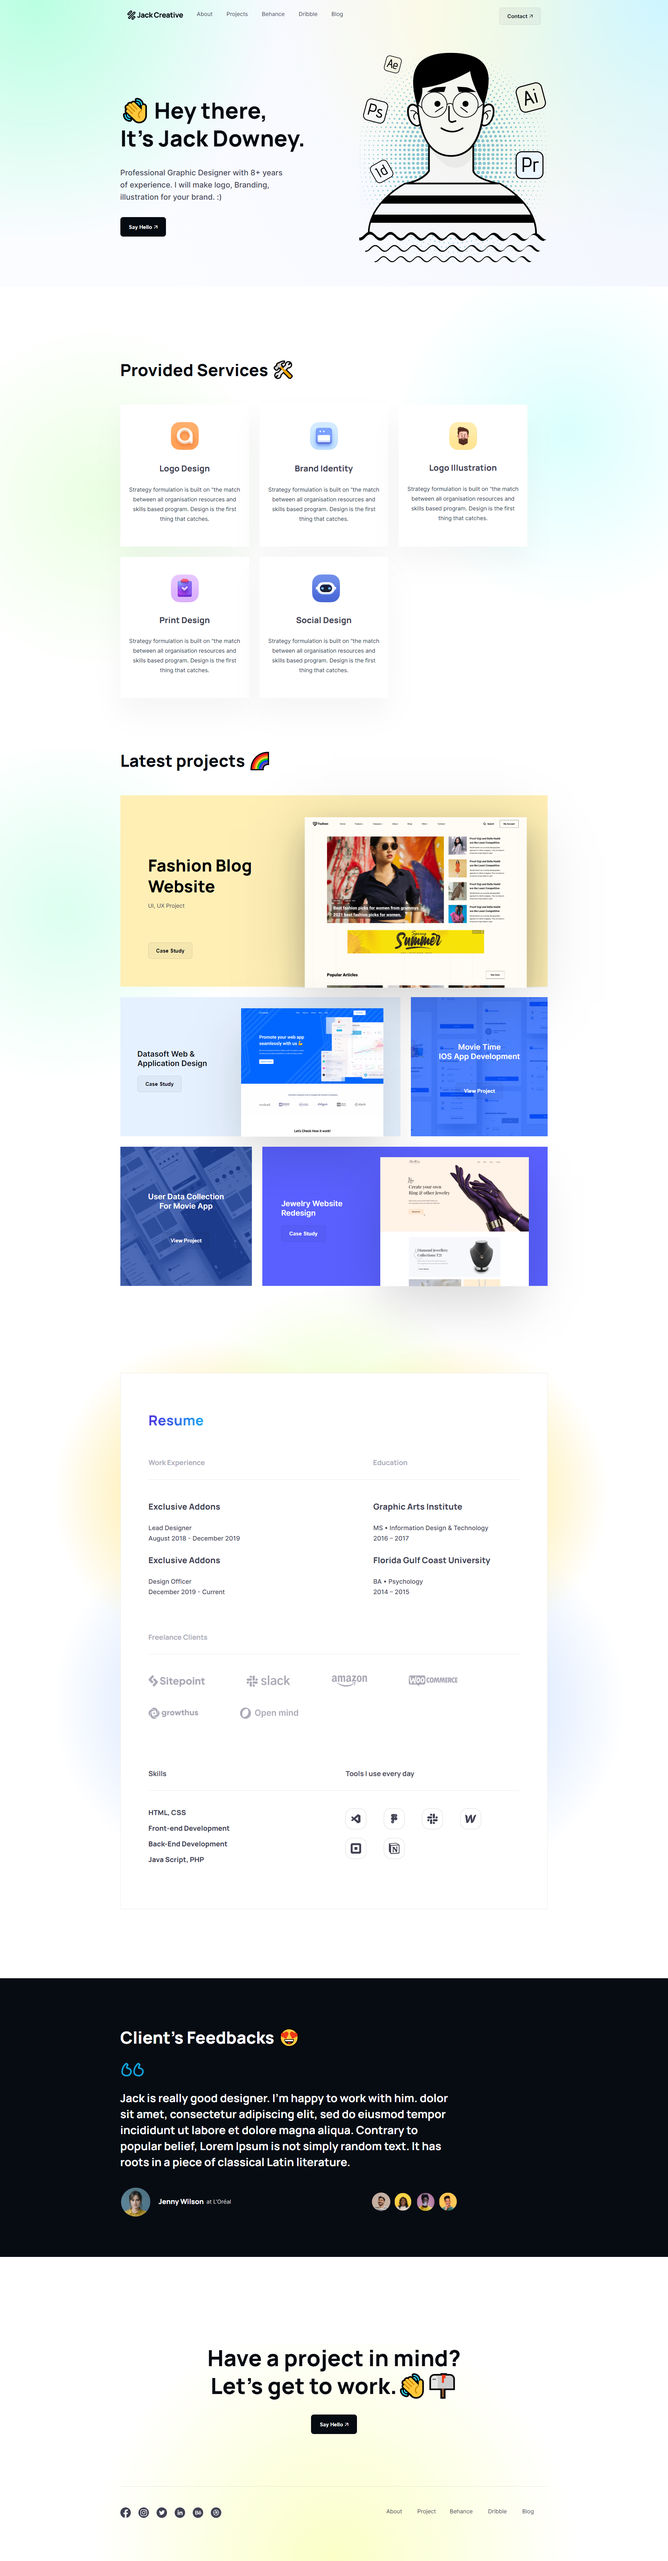
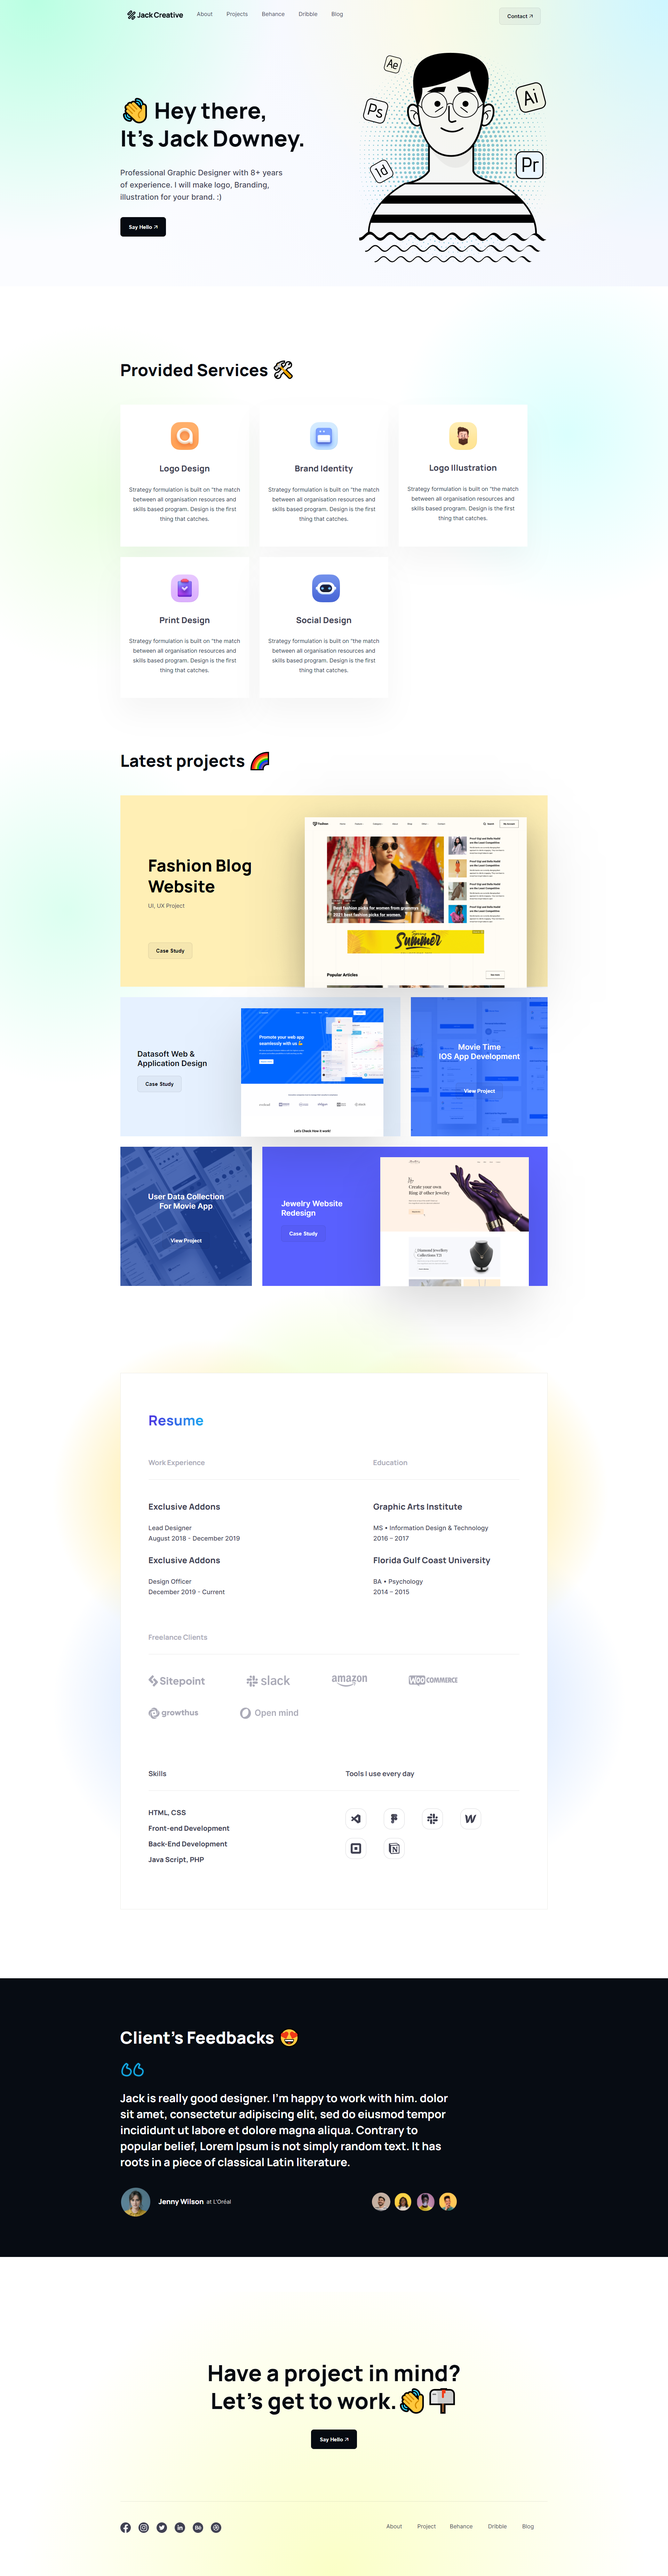
footer bg-color alignments

diff --git a/styles.css b/styles.css
@@ -533,13 +533,13 @@ nav > div > a {
   background: radial-gradient(
     circle at bottom,
     rgba(246, 255, 142, 0.5),
-    transparent 700px
+    transparent 900px
   );
 }
 
 .footer-text {
   text-align: center;
-  margin-top: 250px;
+  padding-top: 150px;
   margin-bottom: 150px;
 }
 
